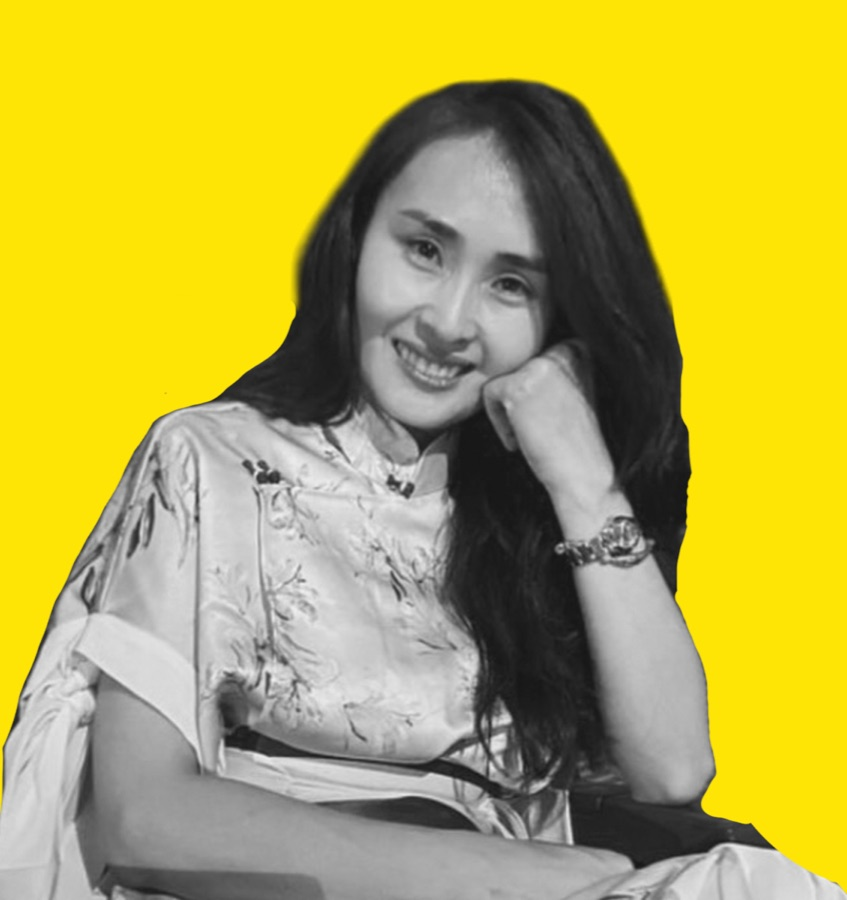
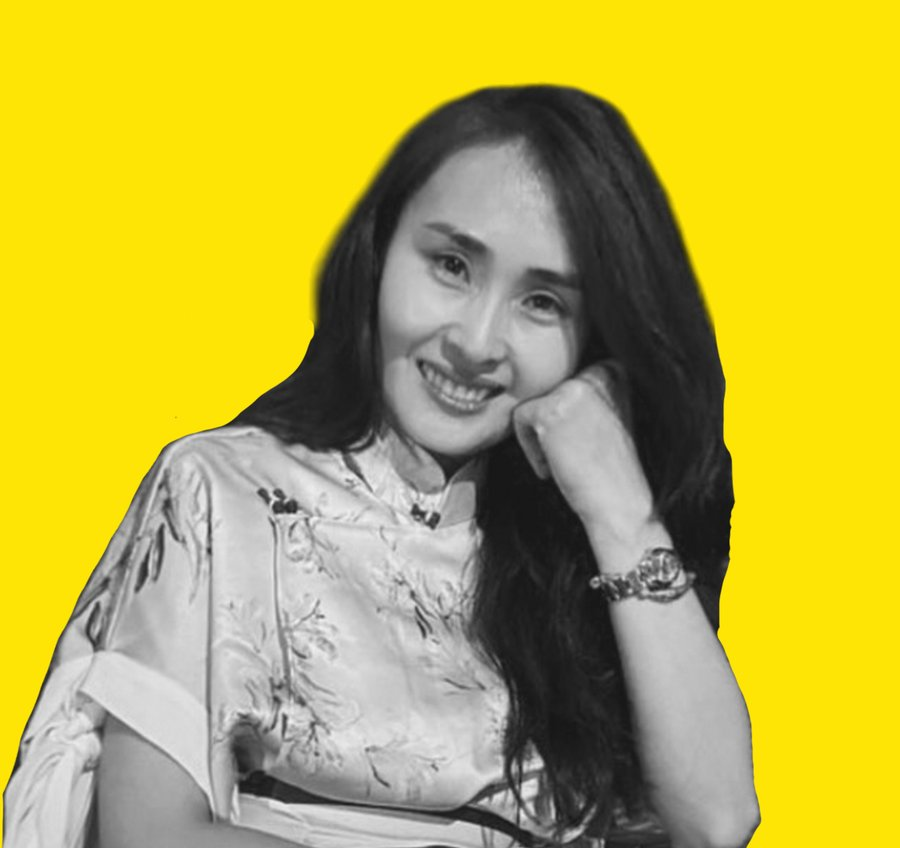
Fix Amgalan-Erdene's photo background turning gray
The new photo has color baked into its pixels (not a transparent PNG), so the
site-wide grayscale filter was converting its yellow background to pale gray
along with the subject. Crop out a gray prop visible at the bottom edge, and
exclude this image from the grayscale filter since the subject is already
grayscale in the source photo.

diff --git a/index.html b/index.html
@@ -1157,7 +1157,7 @@
                         <div class="col-lg-3 col-md-6 lg-mb-24">
                             <div class="team-item h-100 effectFade fadeUp" data-delay="0.2">
                                 <div class="image">
-                                    <img loading="lazy" src="assets/images/team/Amgalan-Erdene.N.jpg" alt="Amgalan-Erdene.N">
+                                    <img loading="lazy" src="assets/images/team/Amgalan-Erdene.N.jpg" alt="Amgalan-Erdene.N" style="filter: none;">
                                 </div>
                                 <a href="#" class="name h6 fw-semibold">Amgalan-Erdene.N </a>
                                 <div class="sub text-body-1">Executive Director, Ungu Nem NGO</div>
